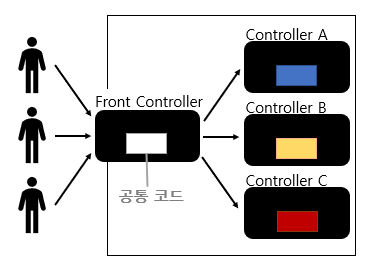
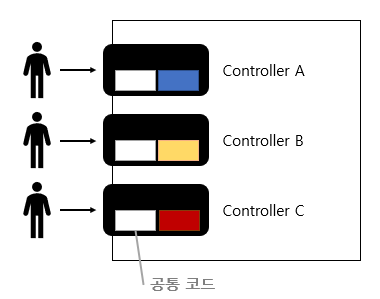
docs: 이미지 수정정

diff --git a/Spring/inflearn-spring/mvc-1.md b/Spring/inflearn-spring/mvc-1.md
@@ -1092,7 +1092,7 @@ JSP 역할이 너무 크고 현재의 예시는 굉장히 간단한 편이지만
 
 예제에 들어가기 앞서 MVC 패턴에 대해 간단히 설명하겠다.
 
-![alt text](image.png)
+![alt text](/assets/front1.png)
 
 
 - 프로젝트 구성 요소를 Model, View, Controller 3가지로 나눈 패턴
@@ -1262,7 +1262,7 @@ Controller 호출 전에 공통 기능을 처리할 수 있게 한다.
 
 기존의 패턴은 다음과 같다.
 
-![alt text](/assets/front1.png)
+![alt text](/assets/front2.png)
 
 각 클라이언트들은 Controller A, B, C에 대해 각각 호출한다.
 
@@ -1270,7 +1270,7 @@ Controller 호출 전에 공통 기능을 처리할 수 있게 한다.
 
 하지만 프론트 컨트롤러 패턴을 도입한다면 다음과 같이 변하게 된다.
 
-![alt text](/assets/front2.png)
+![alt text](/assets/front1.png)
 
 각 클라이언트들은 Front Controller에 요청을 보내고,
 
@@ -1392,7 +1392,7 @@ public class FrontControllerServletV1 extends HttpServlet {
  
 위에서 설명했던 그림을 예제 코드와 함께 다시 살펴보면
 
-![alt text](/assets/front2.png)
+![alt text](/assets/front1.png)
 
 각 클라이언트들은 /front-controller/v1 하위의 어떤 경로를 접속하던간에 Front Controller으로 이동한다.
 
